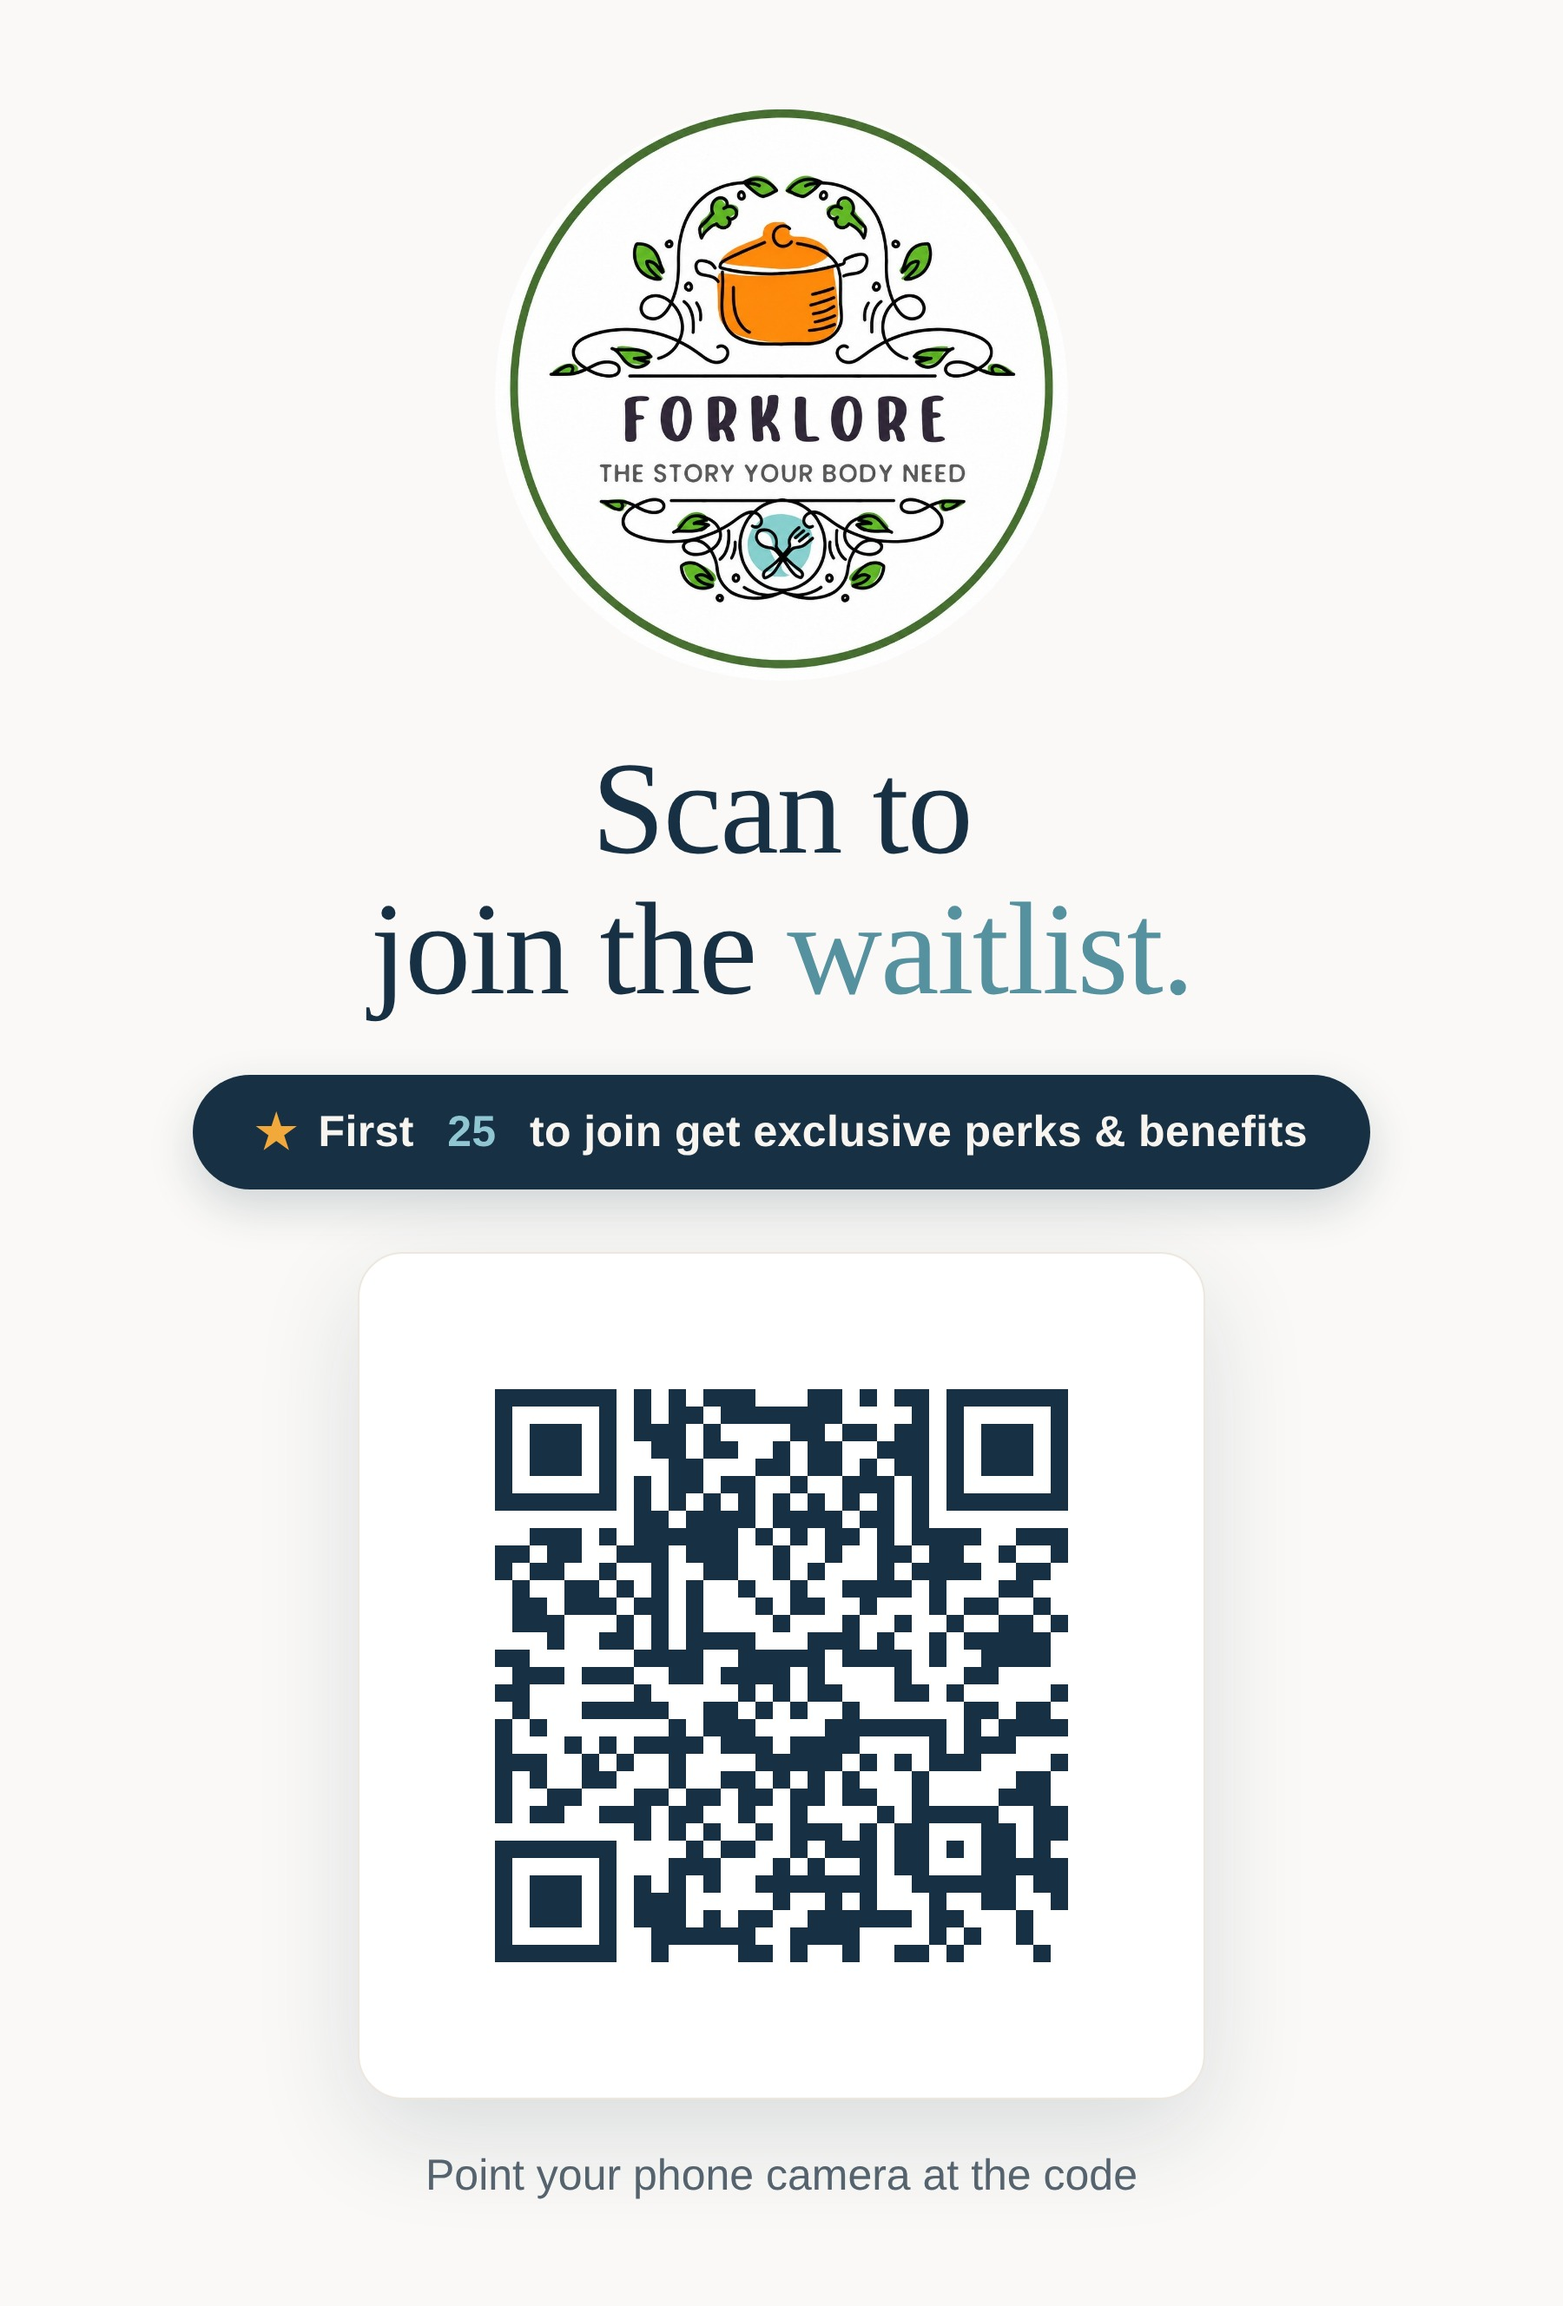
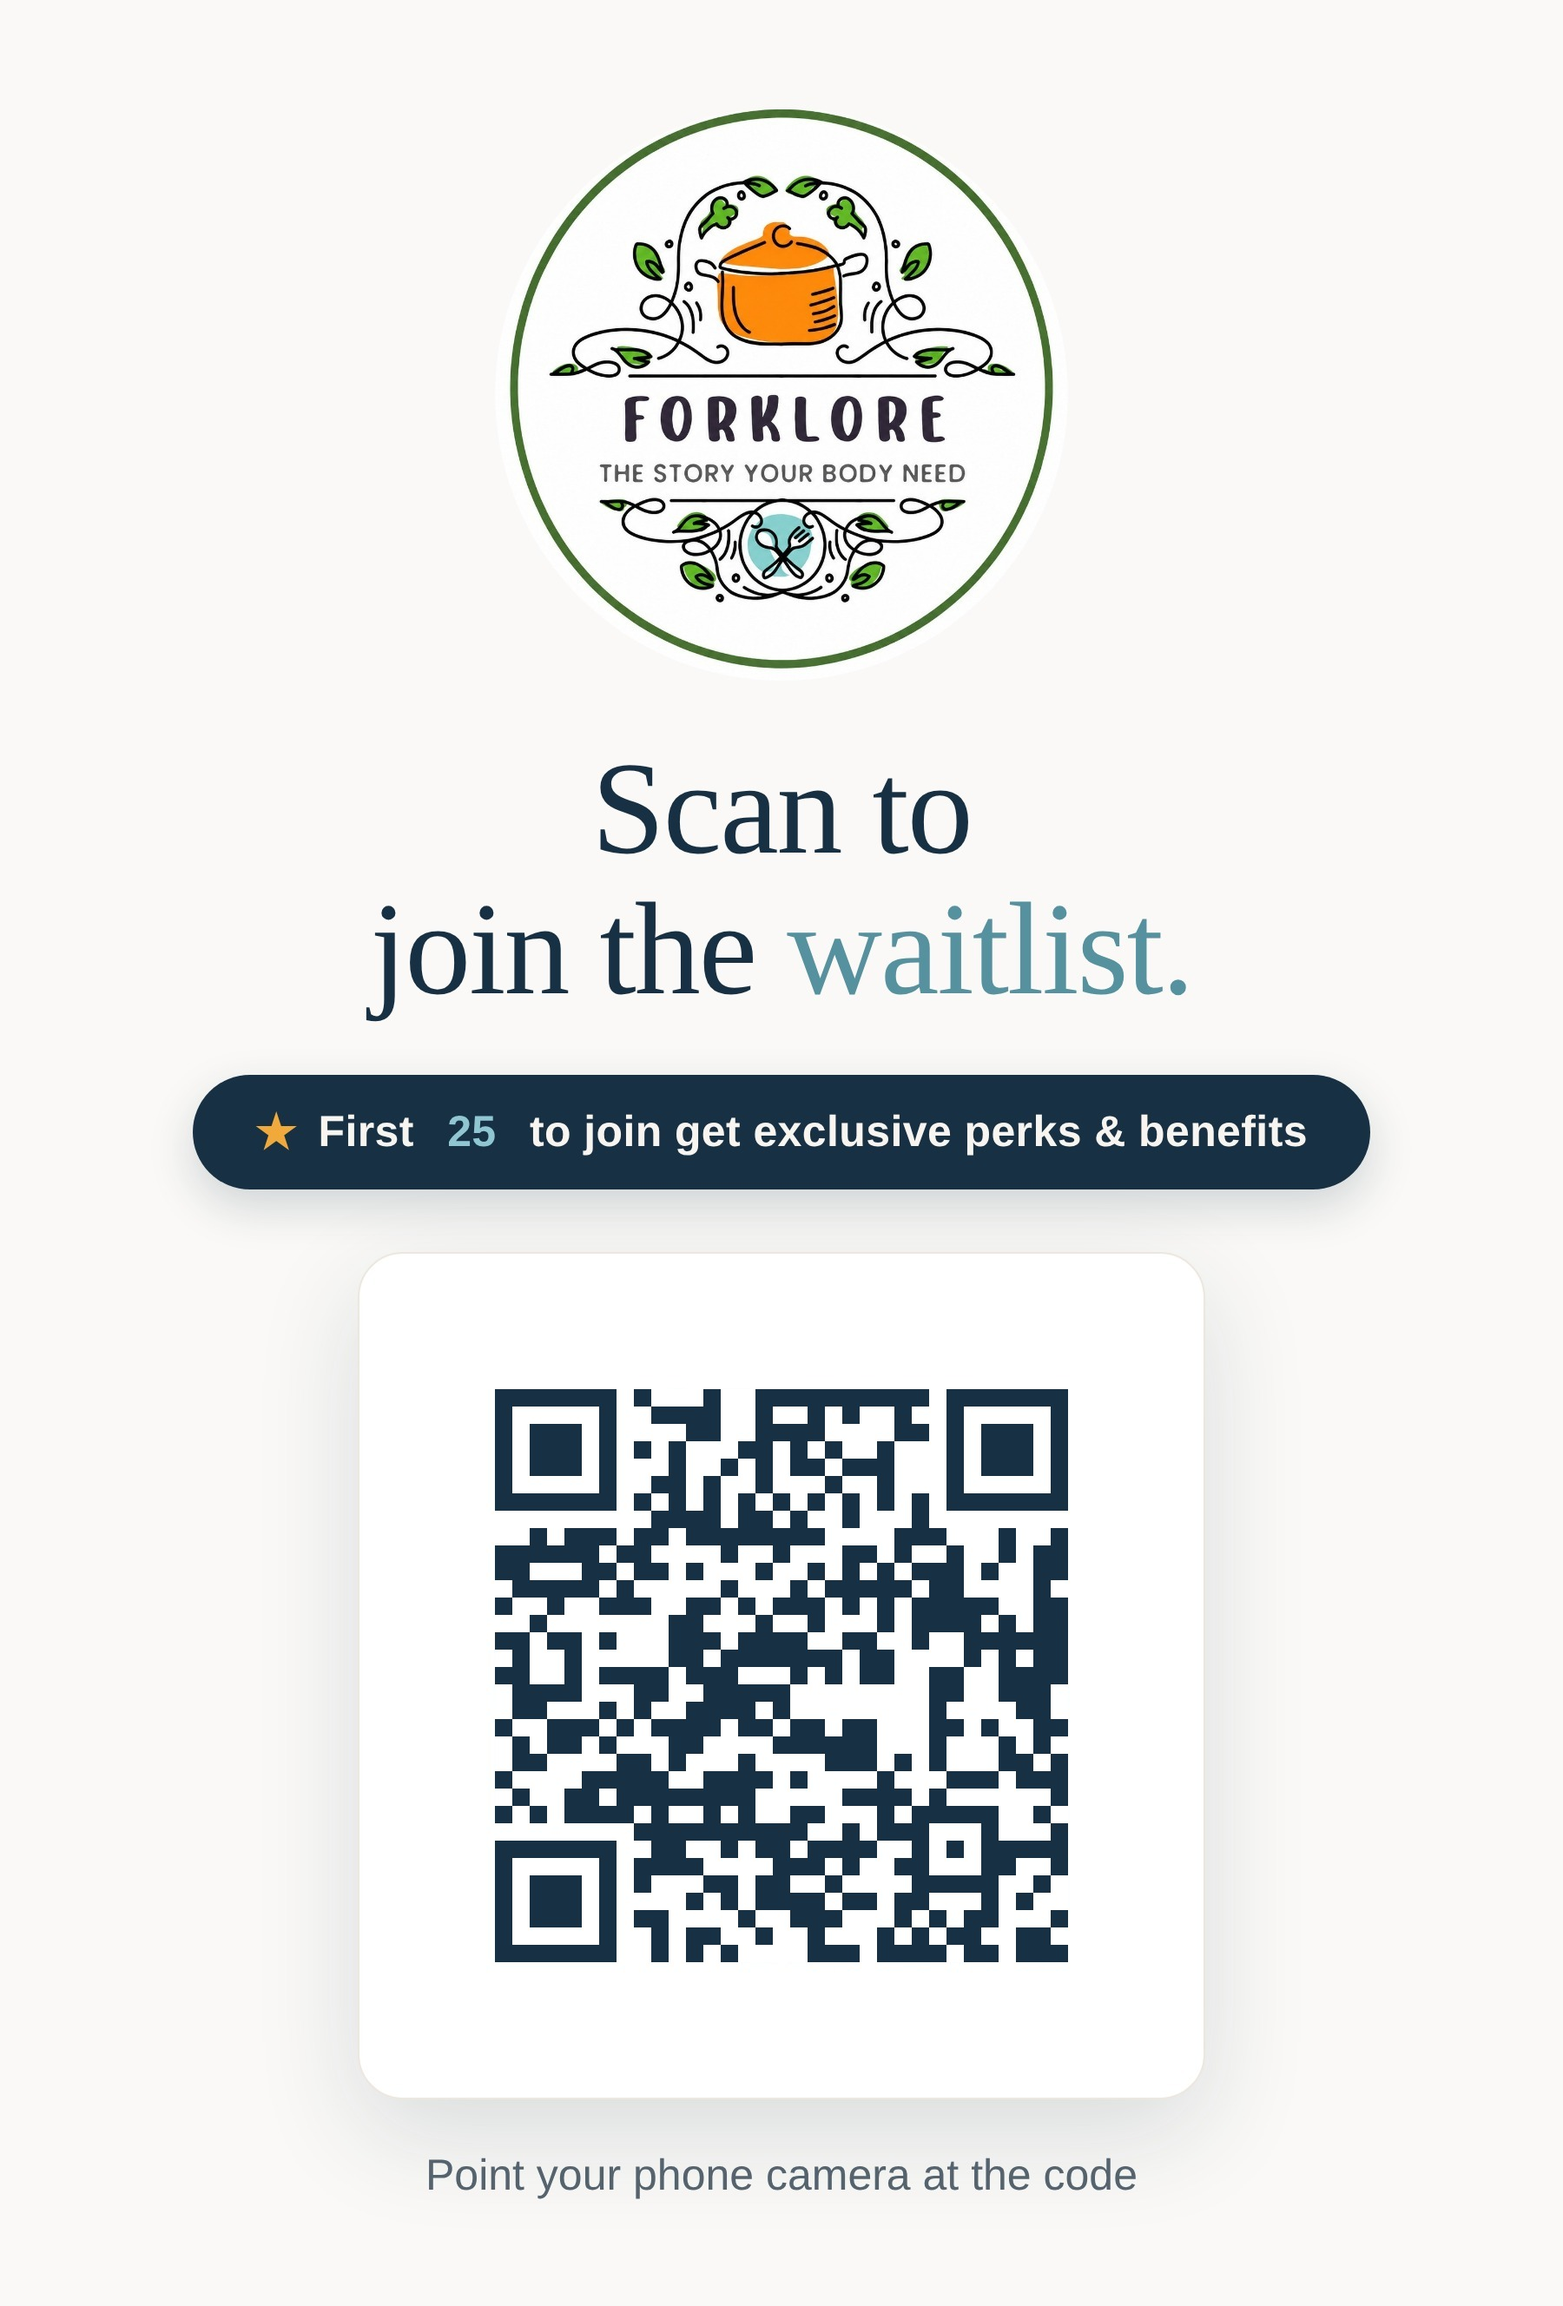
Repoint QR assets to theforklore.in + add Vercel Web Analytics + trial copy fix (#9)
* Regenerate QR assets to point at theforklore.in

Repoint all QR marketing assets from the-fork-lore.vercel.app to the
new custom domain https://theforklore.in (the vercel.app subdomain is
intermittently blocked by some Indian ISPs; the custom domain is not).

Standalone QRs regenerated at version 4 / error-correction H, brand navy
(#173044), matching the originals' 820x820 dimensions. The card QR is
composited in place over the existing artwork so the logo, headline,
'First 25' banner, and caption are byte-for-byte unchanged. All raster
assets verified to decode to https://theforklore.in.

Claude-Session: https://claude.ai/code/session_015hjJ7h93i1iCdPUmWyzuHh

* Add Vercel Web Analytics tracking script

Inject the static-site Web Analytics snippet so page views and visitor
data are collected once Web Analytics is enabled in the Vercel dashboard.
The script is served by Vercel at the edge (/_vercel/insights/script.js);
it 404s harmlessly in local/other environments and does not affect render.

Claude-Session: https://claude.ai/code/session_015hjJ7h93i1iCdPUmWyzuHh

* Remove 'free' from the trial trust badge

Change the badge copy from 'Start a free 3-day trial' to 'Start a
3-day trial' per request.

Claude-Session: https://claude.ai/code/session_015hjJ7h93i1iCdPUmWyzuHh

---------

Changed region(s): [[0.3111, 0.5938, 0.6844, 0.875]]

diff --git a/index.html b/index.html
@@ -4,6 +4,8 @@
 <meta name="viewport" content="width=device-width, initial-scale=1">
 
 <script src="assets/2278b11c-c43f-43a1-af62-0a721fa7c3b9.js"></script>
+<!-- Vercel Web Analytics (served at the edge once enabled in the Vercel dashboard) -->
+<script defer src="/_vercel/insights/script.js"></script>
 <style id="forklore-mobile">
 @media (max-width: 820px){
   html,body{overflow-x:hidden !important;}
@@ -502,7 +504,7 @@
       <div data-trial="1" data-reveal="1" data-delay="320" style="margin: 26px 0 0; text-align: center; opacity: 0; transform: translateY(20px); transition: opacity 320ms ease, transform 420ms cubic-bezier(.16,1,.3,1);">
         <span style="display: inline-flex; align-items: center; gap: 10px; padding: 11px 22px 11px 16px; background: #EEF4F2; border: 1px solid #D8E4DF; border-radius: 999px; font-size: 15.5px; line-height: 1.4; color: #3A4C5E; text-align: left; max-width: 100%;">
           <svg width="18" height="18" viewBox="0 0 24 24" fill="none" stroke="#2E7C90" stroke-width="1.8" stroke-linecap="round" stroke-linejoin="round" style="flex: none;"><path d="M12 3l7 3v5c0 4.2-2.8 7.3-7 8.6C7.8 18.3 5 15.2 5 11V6z"></path><path d="M9 11.6l2 2 4.2-4.4"></path></svg>
-          <span>Not convinced? Start a free <strong style="color: #2E7C90; font-weight: 600; white-space: nowrap;">3-day trial</strong> — no commitment.</span>
+          <span>Not convinced? Start a <strong style="color: #2E7C90; font-weight: 600; white-space: nowrap;">3-day trial</strong> — no commitment.</span>
         </span>
       </div>
       <div data-waitlist-error="1" style="font-size: 15px; color: #A8543F; margin-top: 14px; height: 0; opacity: 0; transition: opacity 300ms ease;">Please add your name and a valid email.</div>
